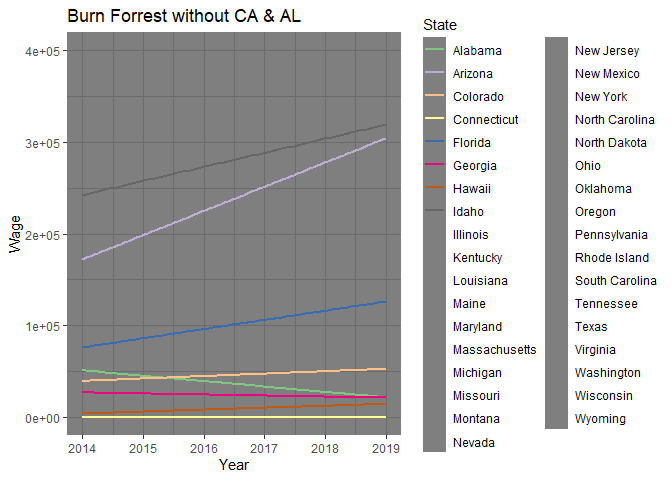
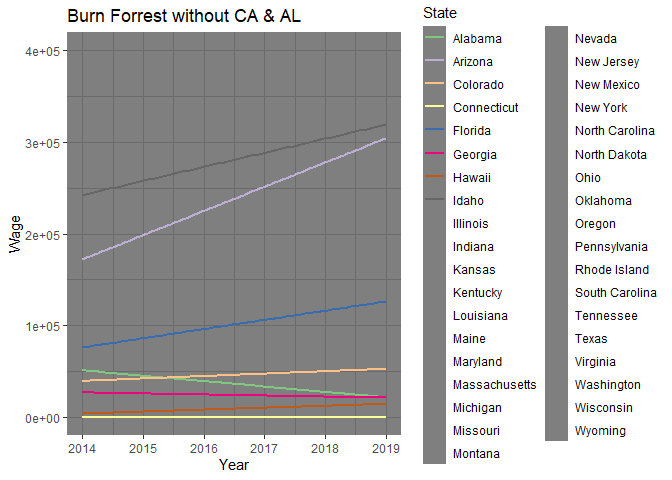
another dplyr (use count() %>% top_n() )

Changed region(s): [[0.625, 0.0, 0.8125, 0.9688], [0.8125, 0.0312, 1.0, 0.9375]]

diff --git a/firefighters_lm_wildfires.md b/firefighters_lm_wildfires.md
@@ -151,10 +151,10 @@ kable(df_fire[sample(1:703,4),c(1,2,5)])
 
 |     | State      | US_code | Year |
 |:----|:-----------|:--------|-----:|
-| 121 | California | CA      | 2016 |
-| 511 | Ohio       | OH      | 2014 |
-| 596 | Texas      | TX      | 2018 |
-| 535 | Oregon     | OR      | 2016 |
+| 179 | Florida    | FL      | 2019 |
+| 608 | Texas      | TX      | 2016 |
+| 309 | Illinois   | IL      | 2014 |
+| 143 | California | CA      | 2014 |
 
 ``` r
 #df_fire <- merge(df_wage,wiki_state,by="US_code")
@@ -235,12 +235,12 @@ Here are some rows from the data I combined
 kable(fire_full[sample(1:600,4),], digits = 2,row.names = F, align = 'c')
 ```
 
-|     State      | Year | fires_Num | Acres_burned | US_code |        Instance_of         |                             PUMA                              | Average_Wage | log_Wage |
-|:--------------:|:----:|:---------:|:------------:|:-------:|:--------------------------:|:-------------------------------------------------------------:|:------------:|:--------:|
-|     Texas      | 2015 |   9272    |    184418    |   TX    | state of the United States | Rockwall, Greenville & Dallas (Far Northeast) Cities PUMA, TX |   35027.92   |  10.46   |
-| South Carolina | 2015 |    976    |     3800     |   SC    | state of the United States |                North Charleston City PUMA, SC                 |   32383.39   |  10.39   |
-|    Oklahoma    | 2016 |   1938    |    767780    |   OK    | state of the United States |                      Enid City PUMA, OK                       |   31649.78   |  10.36   |
-|    Georgia     | 2019 |   3158    |    12407     |   GA    | state of the United States |                   Paulding County PUMA, GA                    |   88041.16   |  11.39   |
+|   State    | Year | fires_Num | Acres_burned | US_code |        Instance_of         |                        PUMA                        | Average_Wage | log_Wage |
+|:----------:|:----:|:---------:|:------------:|:-------:|:--------------------------:|:--------------------------------------------------:|:------------:|:--------:|
+|  Florida   | 2019 |   2121    |    122500    |   FL    | state of the United States | Walton, Washington, Holmes & Bay Counties PUMA, FL |   64637.05   |  11.08   |
+|  Georgia   | 2016 |   5086    |    52119     |   GA    | state of the United States |              Forsyth County PUMA, GA               |   38005.98   |  10.55   |
+| Washington | 2018 |   1743    |    438834    |   WA    | state of the United States |    Skagit, Island & San Juan Counties PUMA, WA     |   61646.64   |  11.03   |
+|   Idaho    | 2018 |   1132    |    604481    |   ID    | state of the United States |   Lewiston City & Nez Perce Reservation PUMA, ID   |   36081.84   |  10.49   |
 
 ## Overlooking the Data
 
@@ -268,16 +268,18 @@ data we see that California and Alaska suffer the most from wildfires,
 and also has the biggest change in wildfires
 
 ``` r
-count_fire<-fire_full %>%   #sum by country
-  group_by(State) %>%
-  summarise(much= sum(fires_Num))
-fire_min <- count_fire[order(count_fire$much,decreasing = T),]
-min_fire_gg<- fire_full$State%in%fire_min$State[1:43]
+big_2 <- unlist(fire_full %>%
+                  count(State,wt= Acres_burned, sort = T, name = 'mean_Acres') %>% 
+                  top_n(2, mean_Acres) %>%
+                  select(1))
 
-big_2 <- as.vector(big_n%>%  top_n(6, size) %>% select(1))
-full_2<- fire_full$State%in% c("California", "Alaska")
+as.vector(big_2)
+```
 
-fire_full [full_2,]%>%
+    ## [1] "California" "Alaska"
+
+``` r
+fire_full %>% filter(State%in% big_2)%>%
   ggplot(aes(y= Acres_burned,x= Year,colour= State))+
   geom_smooth(size=0.8, method = "lm", se= F)+scale_color_brewer(palette="Accent")+
   labs(title = "Burn Forrest CA & AL", xlab= "Year")+ xlab("Year")+ylab("Wage")+
@@ -287,7 +289,7 @@ fire_full [full_2,]%>%
 ![](firefighters_lm_wildfires_files/figure-gfm/fire%20progress-1.png)<!-- -->
 
 ``` r
-fire_full [min_fire_gg,]%>%
+fire_full %>% filter(!State%in% big_2)%>%
   ggplot(aes(y= Acres_burned,x= Year,colour= State))+
   geom_smooth(size=0.8, method = "lm", se= F)+scale_color_brewer(palette="Accent")+
   labs(title = "Burn Forrest without CA & AL", xlab= "Year")+ xlab("Year")+ylab("Wage")+
